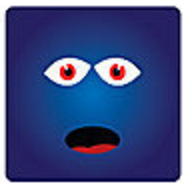
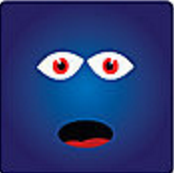
fixed new monster pics; added all edited files

diff --git a/src/js/app.js b/src/js/app.js
@@ -5,11 +5,21 @@ $(document).ready(function () {
   }, function () {
     $(this).css("text-decoration", "none");
   });
-
+//
+// AT LOAD
 swal({
-  title: "Welcome to <span style'color:brown'>switchIt</span>!",
-  text: "Switch your key piece with pieces on the board in order to match monsters across an entire row or column to get points.",
+  title: "switchIt!",
+  subtitle: "Switch your key piece with pieces on the board",
+  text: "Match monsters across an entire row or column to get points!",
   html: true
+});
+// INFO BUTTON
+$("#button").click(function() {
+  console.log("click");
+  swal({
+    title: "This is your switch piece!",
+    text: "Switch this piece with one on the board to match a row or column and win points!"
+  });
 });
 //
 // setTimeout(function() {
@@ -40,7 +50,19 @@ var monstersObjArray = [
   {
     symbol: "Z",
     cssClass: "red"
-  }
+  },
+  {
+    symbol: "T",
+    cssClass: "blue2"
+  },
+  {
+    symbol: "P",
+    cssClass: "yellow2"
+  },
+  {
+    symbol: "L",
+    cssClass: "gray2"
+  },
 ];
 // reference array for level properties
 var levelObjArray = [
@@ -57,7 +79,7 @@ var levelObjArray = [
     level: 1,
     boxNumber: 4,
     maxMoves: 24,
-    scoreGoal: 6000,
+    scoreGoal: 4000,
     pointsVal: 100,
     maxMonsters: 5,
     danger: null
@@ -66,16 +88,43 @@ var levelObjArray = [
     level: 2,
     boxNumber: 5,
     maxMoves: 28,
-    scoreGoal: 4500,
+    scoreGoal: 5000,
     pointsVal: 100,
     maxMonsters: 5,
+    danger: null
+  },
+  {
+    level: 3,
+    boxNumber: 3,
+    maxMoves: 20,
+    scoreGoal: 3000,
+    pointsVal: 100,
+    maxMonsters: 6,
+    danger: null
+  },
+  {
+    level: 4,
+    boxNumber: 4,
+    maxMoves: 24,
+    scoreGoal: 4000,
+    pointsVal: 100,
+    maxMonsters: 7,
+    danger: null
+  },
+  {
+    level: 5,
+    boxNumber: 5,
+    maxMoves: 28,
+    scoreGoal: 5000,
+    pointsVal: 100,
+    maxMonsters: 8,
     danger: null
   }
 ];
 //
-var currentLevel = 0;
+var currentLevel = 4;
 var numberOfMonsters = levelObjArray[currentLevel].maxMonsters;
-var levelsArray = [3, 4, 5]; // might refactor to use levelObjArray
+var levelsArray = [3, 4, 5, 3, 4, 5]; // might refactor to use levelObjArray
 console.log("nMon:", numberOfMonsters);
 //
 // relates to event listeners
@@ -157,12 +206,11 @@ function switchPiece(row, col) {
   // set currentSwitchPiece to gameboard obj data
   currentSwitchPiece = gameArray[row][col];
   // update HTML classes to remove old class and add new cssClass
-  $("#switch-piece").removeClass();
-  $("#switch-piece").addClass(currentSwitchPiece.cssClass);
+  $("#switch-piece").removeClass().addClass(currentSwitchPiece.cssClass);
   // set gameboard obj to tempSwitchPiece data
   gameArray[row][col] = tempSwitchPiece;
   // update addClass UI to show new cssClass
-  $("#idx" + row + col + "").removeClass(currentSwitchPiece.cssClass);
+  $("#idx" + row + col + "").removeClass().addClass("box");
   $("#idx" + row + col + "").addClass(gameArray[row][col].cssClass);
 }
 //
@@ -229,8 +277,8 @@ function handleMatchResults (array) {
   for (var i = 0; i < maxSize; i++) {
     var x = array[i].charAt(3);
     var y = array[i].charAt(4);
-    $("#" + array[i]).removeClass(gameArray[x][y].cssClass);
-    $("#" + array[i]).addClass("score");
+    $("#" + array[i]).removeClass();
+    $("#" + array[i]).addClass("box score");
     console.log("array[i]:", array[i]);
     // $("#" + array[i]).switchClass(gameArray[x][y].cssClass, "score", 5000, "easeInOutQuad");
   }
@@ -253,7 +301,6 @@ function checkForMatches() {
     levelUp();
     resetGame();
     runGame();
-    console.log("score:", score);
   } else if (maxMoves <= 0) {
     swal("Sorry! You ran out of moves!");
     resetGame();
@@ -287,7 +334,7 @@ function clearWinners (array) {
     // add monster to gameArray at index
     gameArray[x][y] = localMonsterObj;
     // update gameboard with new monster
-    $("#" + e).removeClass("score");
+    $("#" + e).removeClass().addClass("box");
     $("#" + e).addClass(localMonsterObj.cssClass);
   });
   // checkForDups();
@@ -296,12 +343,15 @@ function clearWinners (array) {
 // LEVEL UP
 function levelUp() {
   console.log("LevelUpBefore:", currentLevel)
-  if (currentLevel < (levelsArray.length - 2))  {
+  if (currentLevel < (levelsArray.length - 1))  {
     currentLevel++;
+  } if (currentLevel === 3) {
+    swal("Let's try something harder...");
   } else if (currentLevel === (levelsArray.length - 1)) {
     swal("That's all for now...");
     currentLevel = 0;
   }
+  console.log("levelUpAfter:", currentLevel);
 }
 // RESET GAME
 function resetGame() {
@@ -316,9 +366,8 @@ function resetGame() {
   scoreGoal = levelObjArray[currentLevel].scoreGoal;
   $("#goal").text(scoreGoal);
   pointsVal = levelObjArray[currentLevel].pointsVal;
-  var score = 0;
+  score = 0;
   $("#score").text(score);
-  console.log("resetScore:", score);
   var userLevel = currentLevel + 1;
   $("#level").text(userLevel);
   //
@@ -328,12 +377,11 @@ function resetGame() {
     "scoreGoal:", scoreGoal,
     "score:", score,
     "gameOn:", gameOn,
-    "noMon:", numberOfMonsters);
+    "noMon:", numberOfMonsters,
+    "currentLevel:", currentLevel);
 }
 //
-// EVENT LISTENERS
-// !! add function to make event listeners not work if board is not playable
-// add click listeners - create fct parameters i, k
+//  **EVENT LISTENERS**
 //
 // RUN GAME
 function runGame () {
@@ -356,15 +404,3 @@ function runGame () {
 runGame();
 //
 }); // End Ready
-
-// $( "button" ).on( "click", function() {
-//   $( "p" ).append( "Started..." );
-
-//   $( "div" ).each(function( i ) {
-//     $( this ).fadeIn().fadeOut( 1000 * ( i + 1 ) );
-//   });
-
-//   $( "div" ).promise().done(function() {
-//     $( "p" ).append( " Finished! " );
-//   });
-// });

diff --git a/src/index.html b/src/index.html
@@ -13,6 +13,7 @@
     <div class="switch-card">
       <div id="switch-piece">
       </div>
+      <div><button class="button" id="button">?</button></div>
     </div>
     <div class="score-board">
       <h4>Goal: <span class="goal" id="goal"></span></h4>
@@ -24,7 +25,7 @@
       <p class="game-input" id="moves"></p>
     </div>
     <div class="level">
-      <h4>Level : <span class="game-input" id="level"></span></h4>
+      <h4>Level: <span class="game-input" id="level"></span></h4>
     </div>
   </div>
   <div class="game-board" id="board">

diff --git a/readme.md b/readme.md
@@ -1,10 +1,15 @@
 #switchIt
 
-Description goes here
+switchIt is a two-step matching game:
+1. Switch your key piece (ouside the box) with any piece on the board
+2. Match pieces along the entire row or column to get points! (no diagonals in this version)
+
+
+Play switchIt for a fun distraction and a simple brain stretch!
 
 ##Technologies Used
 * JQuery
-* Sweetalert
+* Sweet Alert
 
 ## My Approach 
 From the beginning my goal was to reduce the hardcoding down to a minimum and set the game up to be scalable by only adding to the monsters array and the 2 levels array. 
@@ -21,13 +26,22 @@ Some cool features are:
 Fork to your own repository and clone to your computer to play with the code.
 
 ### Make sure you have the following:
-These ref links to the header of your HTML
-* <link rel="stylesheet" type="text/css" href="dist/sweetalert.css">
+These ref links in the apropriate format in the header of your HTML
+* rel="stylesheet" type="text/css" href="dist/sweetalert.css"
 
-These script links to the bottom of your HTML in the body
-* <script src="https://code.jquery.com/jquery-2.2.4.min.js" integrity="sha256-BbhdlvQf/xTY9gja0Dq3HiwQF8LaCRTXxZKRutelT44=" crossorigin="anonymous"></script>
-* <script src="https://code.jquery.com/ui/1.11.4/jquery-ui.min.js" integrity="sha256-xNjb53/rY+WmG+4L6tTl9m6PpqknWZvRt0rO1SRnJzw=" crossorigin="anonymous"></script>
-  <script src="dist/sweetalert.min.js"></script>
+These script links in the appropriate format at the bottom of your HTML in the body
+* src="https://code.jquery.com/jquery-2.2.4.min.js" integrity="sha256-BbhdlvQf/xTY9gja0Dq3HiwQF8LaCRTXxZKRutelT44=" crossorigin="anonymous"
+* src="https://code.jquery.com/ui/1.11.4/jquery-ui.min.js" integrity="sha256-xNjb53/rY+WmG+4L6tTl9m6PpqknWZvRt0rO1SRnJzw=" crossorigin="anonymous"
+* src="dist/sweetalert.min.js"
+
+##Reach Goals
+* Add double points for combos
+* Add more levels with:
+** more monsters
+** bad guys or danger issues; ie. bombs
+** different score goals or moves
+* Add more UI; ie. level menu
+* Add more animation
 
 ##Unsolved Problems
 
